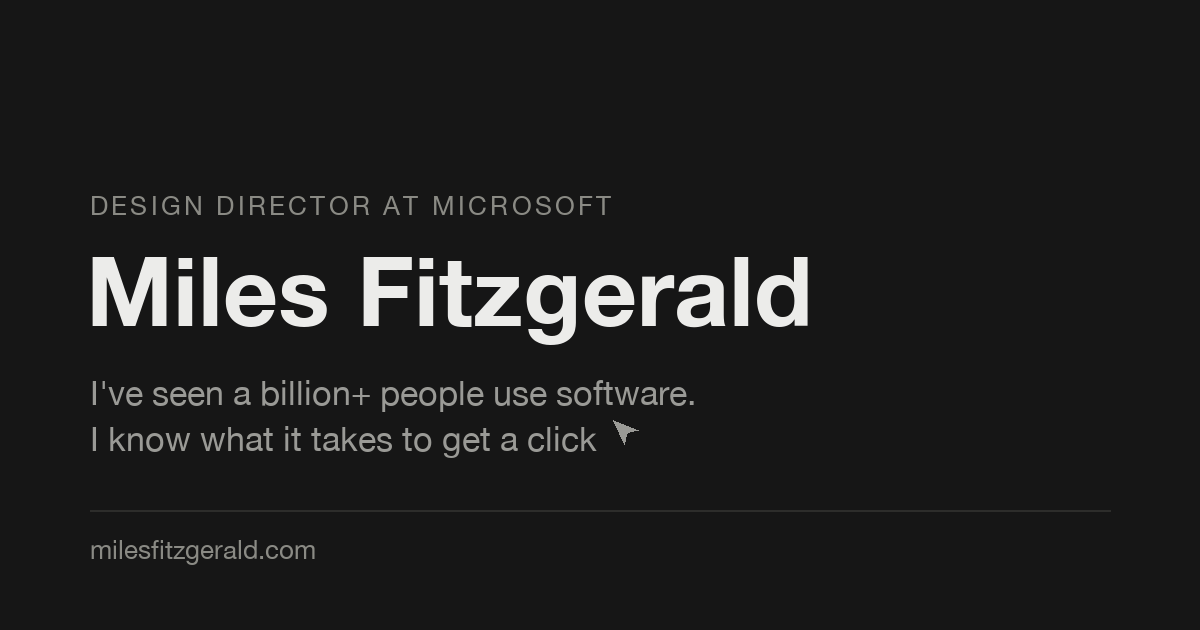
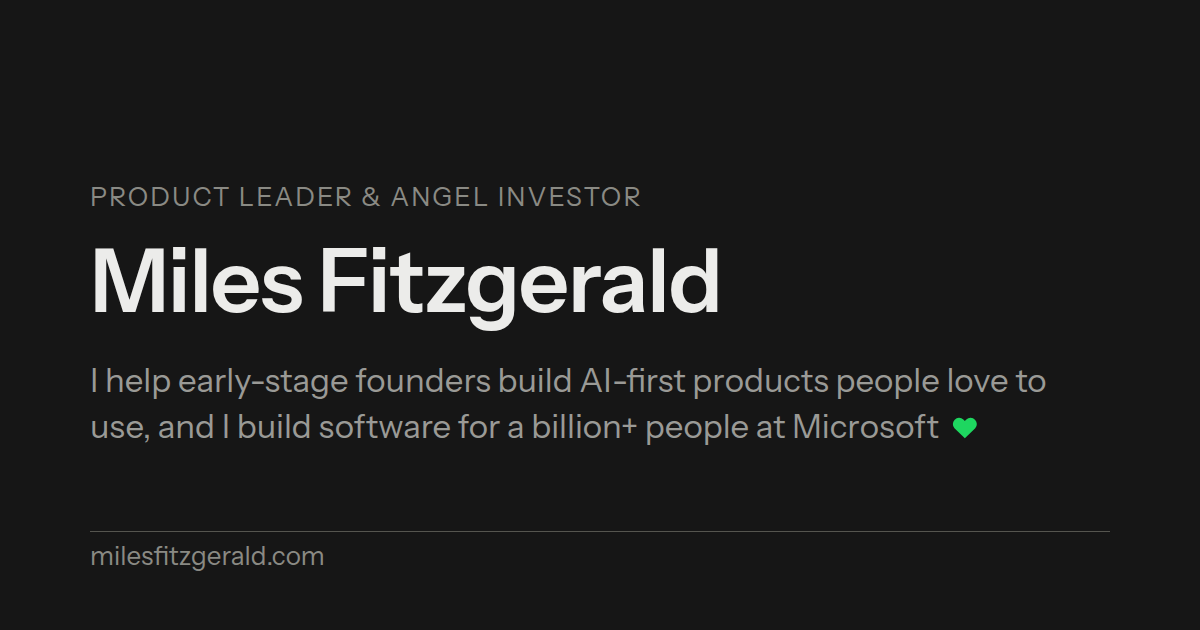
Header leads with the founder offer; new preview image; advisory tag
- Intro and OG description put the founder promise first, Microsoft
  second
- og.png rebuilt at 1200x630 with the current eyebrow and header line
  in the site's type and colours; image URL versioned so social caches
  refetch it
- Advised line reads as technical specialist

Claude-Session: https://claude.ai/code/session_01NJNJ27MEhLgjJDJNb8eNW4

diff --git a/index.html b/index.html
@@ -14,8 +14,8 @@
 <meta property="og:type" content="profile">
 <meta property="og:url" content="https://milesfitzgerald.com/">
 <meta property="og:title" content="Miles Fitzgerald, product leader and angel investor for AI-first startups">
-<meta property="og:description" content="I build software for a billion+ people at Microsoft and I also help early-stage founders build AI-first products people love to use 💚">
-<meta property="og:image" content="https://milesfitzgerald.com/og.png">
+<meta property="og:description" content="I help early-stage founders build AI-first products people love to use, and I build software for a billion+ people at Microsoft 💚">
+<meta property="og:image" content="https://milesfitzgerald.com/og.png?v=2">
 <meta property="og:image:width" content="1200">
 <meta property="og:image:height" content="630">
 <meta property="og:image:alt" content="Miles Fitzgerald, product leader and angel investor">
@@ -31,7 +31,7 @@
   "@type": "Person",
   "name": "Miles Fitzgerald",
   "url": "https://milesfitzgerald.com/",
-  "image": "https://milesfitzgerald.com/og.png",
+  "image": "https://milesfitzgerald.com/og.png?v=2",
   "jobTitle": "Design Director",
   "description": "Product leader and angel investor helping early-stage founders build AI-first products people love to use. Design Director at Microsoft working on AI agents in Excel, based in Barcelona. Previously Spotify, Condé Nast and Adobe. Speaker and writer.",
   "worksFor": {
@@ -242,7 +242,7 @@ footer .hint{
   <header id="top">
     <p class="eyebrow">Product leader &amp; angel investor</p>
     <h1>Miles Fitzgerald</h1>
-    <p class="intro">I build software for a billion+ people at Microsoft and I also help early-stage founders build AI-first products people love to use 💚</p>
+    <p class="intro">I help early-stage founders build AI-first products people love to use, and I build software for a billion+ people at Microsoft 💚</p>
   </header>
 
   <section>
@@ -252,7 +252,7 @@ footer .hint{
       <li><a href="what-i-look-for.html">What I look for in AI-first founders</a></li>
       <li><span class="tag">Invested</span> <a href="https://www.biscuit.so/">Biscuit</a> <span class="tag">build and run a business from a prompt</span></li>
       <li><span class="tag">Invested</span> <a href="https://www.prettydata.co/">Pretty Data</a> <span class="tag">AI revenue tools for SMB</span></li>
-      <li><span class="tag">Advised</span> <a href="https://www.instagram.com/reel/C7JxatNs4Pb/">Institute for Advanced Architecture</a> <span class="tag">technical specialist advisor</span></li>
+      <li><span class="tag">Advised</span> <a href="https://www.instagram.com/reel/C7JxatNs4Pb/">Institute for Advanced Architecture</a> <span class="tag">as technical specialist</span></li>
       <li><a href="#contact">Send me your demo</a></li>
     </ul>
   </section>

diff --git a/what-i-look-for.html b/what-i-look-for.html
@@ -15,7 +15,7 @@
 <meta property="og:url" content="https://milesfitzgerald.com/what-i-look-for.html">
 <meta property="og:title" content="What I look for in AI-first founders">
 <meta property="og:description" content="Five things I look for before writing a cheque into an AI-first founder.">
-<meta property="og:image" content="https://milesfitzgerald.com/og.png">
+<meta property="og:image" content="https://milesfitzgerald.com/og.png?v=2">
 <meta property="og:image:width" content="1200">
 <meta property="og:image:height" content="630">
 <meta property="og:site_name" content="Miles Fitzgerald">
